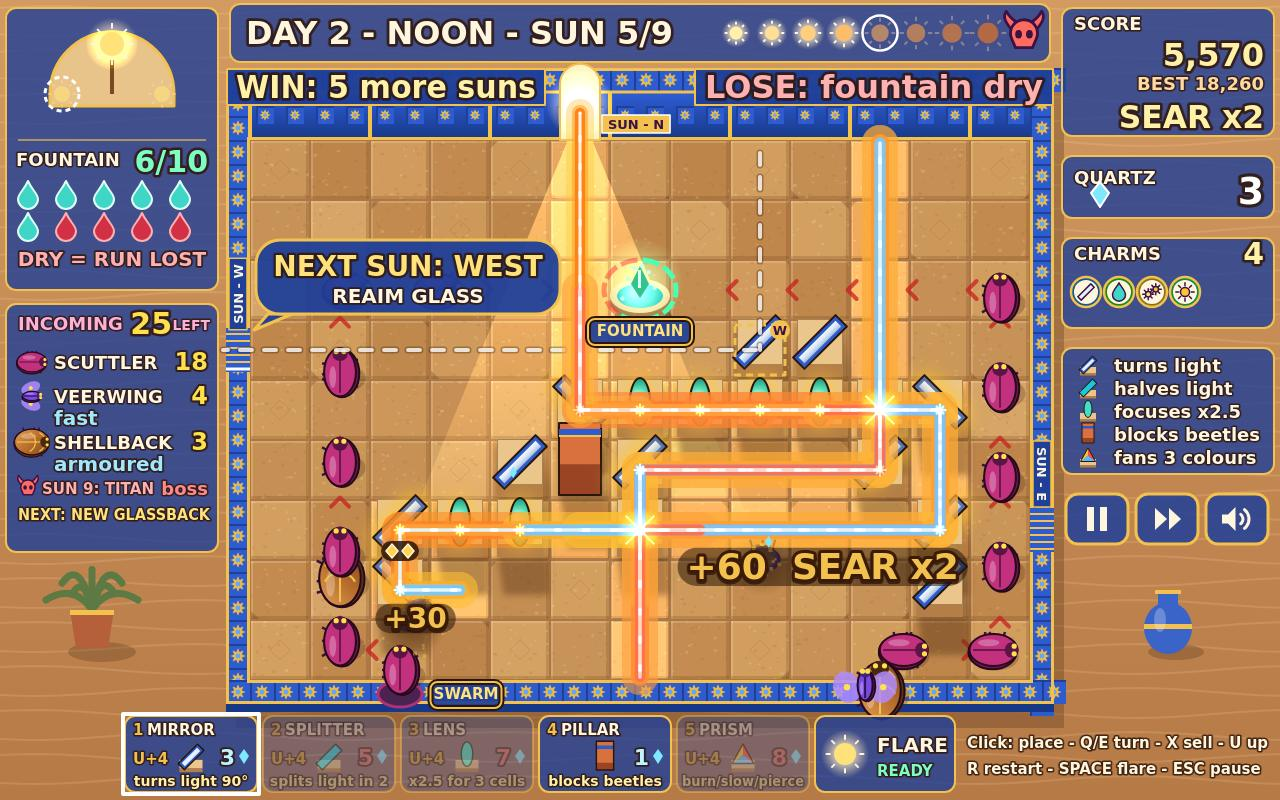
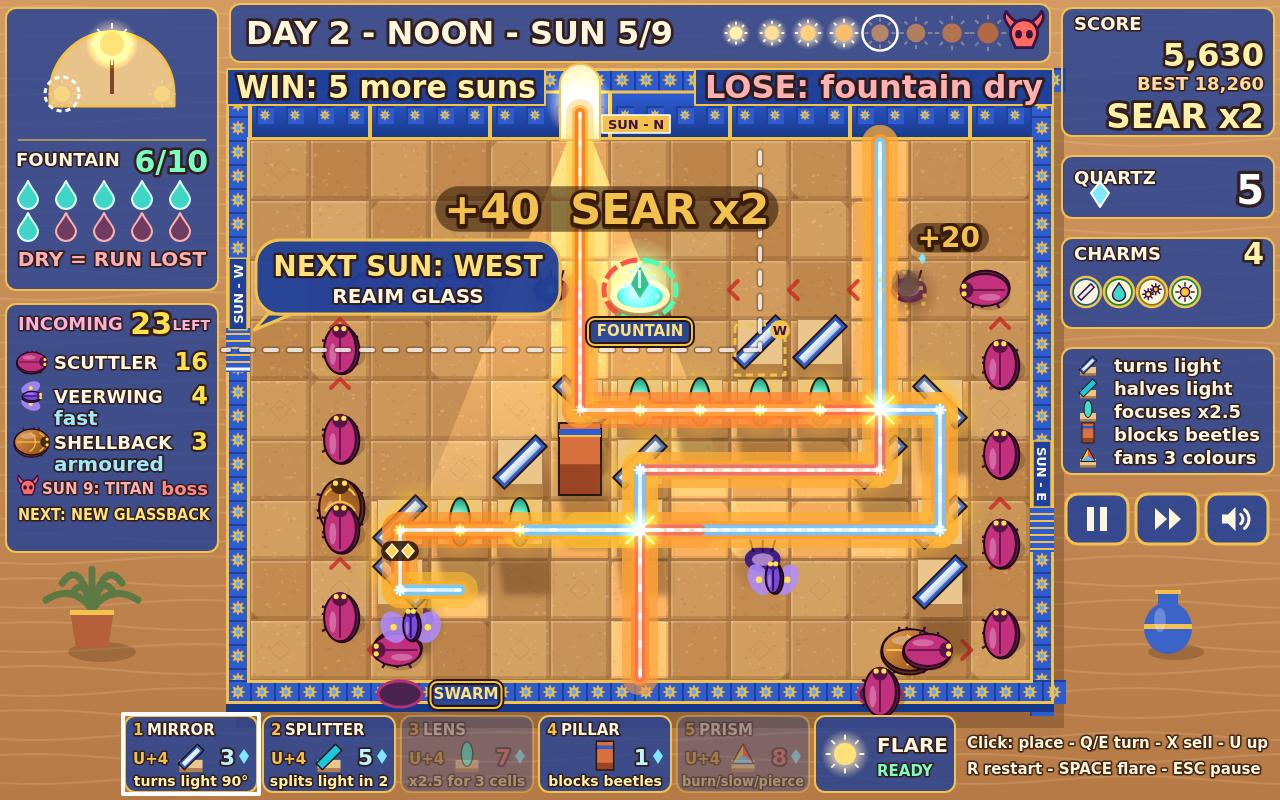
Cover: staged player spends quartz on upgrades during sun 5 so 3 build cards are lit and lens/prism greyed by cost on a busy tick (18 beetles, +40 SEAR x2); SEAR numbers may cross a beam; truth-checked

diff --git a/game/src/render/fx.js b/game/src/render/fx.js
@@ -106,7 +106,8 @@ export function floaterConflicts(fx, run) {
   fx.texts.forEach((t, i) => {
     const box = floaterBox(t);
     if (fx.texts.slice(i + 1).some((o) => overlaps(box, floaterBox(o)))) n++;
-    if (labels.some((l) => overlaps(box, l)) || boxTouchesBeam(box, run.trace.legs) || beetleUnder(poppedBox(t), run)) n++;
+    // A SEAR number may sit over a beam (its dark pill keeps it readable); a plain one may not.
+    if (labels.some((l) => overlaps(box, l)) || (!t.text.includes('SEAR') && boxTouchesBeam(box, run.trace.legs)) || beetleUnder(poppedBox(t), run)) n++;
   });
   return n;
 }

diff --git a/game/src/testhook.js b/game/src/testhook.js
@@ -54,7 +54,7 @@ function floaterOverlaps(app) {
   boxes.forEach((b, i) => {
     boxes.slice(i + 1).forEach((o) => hit(b, o) && bad.push(`${b.text} / ${o.text}`));
     boardTextBoxes(run).forEach((l) => hit(b, l) && bad.push(`${b.text} / label ${l.text}`));
-    if (boxTouchesBeam(b, run.trace.legs)) bad.push(`${b.text} / beam`);
+    if (!b.text.includes('SEAR') && boxTouchesBeam(b, run.trace.legs)) bad.push(`${b.text} / beam`);
     if (beetleUnder(b, run)) bad.push(`${b.text} / beetle`);
   });
   return bad;

diff --git a/NOTES.md b/NOTES.md
@@ -457,6 +457,14 @@
   cover tick 4354 (fountain 6/10, 18 Scuttlers, +60 SEAR x2); the draft's verdict reads HITS 2 PATH CELLS
   (was 6); cover quartz 3 greys three build cards (true at that tick). Nothing was removed from any shot.
 
+- Cover liveliness (operator 04:2xZ: judges liked the old cover's lit cards and busier wave): during the
+  cover sun the staged player turns quartz above 9 into upgrades (STAGE_SPEND_AT, most-lit glass), and the
+  planner only takes ticks with >= 3 build cards affordable and >= 1 greyed by its cost. A SEAR number may
+  now sit over a beam (its dark pill keeps it readable; plain numbers still may not; labels, beetles and
+  other numbers still never). Cover tick 4452: 18 beetles, `+40 SEAR x2` and `+20`, quartz 5 (mirror,
+  splitter, pillar lit; lens 7 and prism 8 greyed), the Lv2 mirror's pips, fountain 6/10. Run still wins
+  (36,440, 10/10). check-shot-truth asserts the card counts from the replayed run.
+
 ## Next
 - READY FOR A/B (01:00 UTC): bold beams + the three cues on top of 61673e1 (FEATS, GLASS legend,
   INCOMING tags, HUD buttons, SUNSTONE chip, title rules table kept). Verified on the final state:
